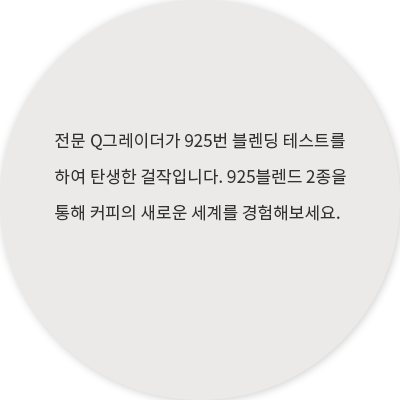
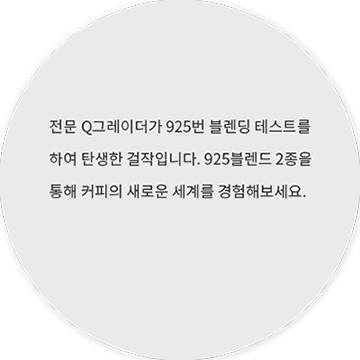
droptop_f

diff --git a/droptop/css/droptop.css b/droptop/css/droptop.css
@@ -102,12 +102,8 @@ section{margin-top: 12px;}
     top: 50%; left: 50%; transform: translate(-50%,-50%);
     text-align: center; width: 900px; max-width: 100%;
 }
-.menu .text-box{
-    float: left; height: 400px; width: 400px;
-}
-.menu .text-box h2{
-    font-size: 50px; padding: 20px 0;
-}
+.menu .text-box{float: left; height: 400px; width: 50%;}
+.menu .text-box h2{font-size: 50px; padding: 20px 0;}
 .menu .text-box hr{
     width: 80px;
     border: 1.5px solid #999;
@@ -133,9 +129,7 @@ section{margin-top: 12px;}
     transition: 0.4s;
 }
 
-.menu .show-img{
-    display: inline-block; width: 400px; height: 400px; position: relative;
-}
+.menu .show-img{display: inline-block; width: 50%; height: 400px; position: relative;}
 .menu .show-img img{
     width: 100%; left: 0;
     top: 50%; transform: translateY(-50%);position: absolute;
@@ -152,14 +146,14 @@ section{margin-top: 12px;}
     width: 900px; max-width: 100%;
 }
 
-.introduce .text-box{float: left; height: 400px; width: 400px;}
+.introduce .text-box{float: left; height: 400px; width: 47%;}
 .introduce .text-box h2{font-size: 50px; margin-top: 120px; padding-left: 20px;}
 .introduce .text-box h3{font-size: 20px; font-weight: 400; margin-top: 26px; padding-left: 20px;}
 
 .introduce .wrap{
-    width: 400px; height: 400px; position: relative;
+    width: 50%; height: 400px; position: relative;
     display: inline-block;
-    margin-left: 40px;
+    margin-left: 20px;
 }
 .introduce .wrap .rotate{
     position: absolute; top: 50%; left: 50%; transform: translate(-50%,-50%);

diff --git a/droptop/css/droptop-mobile.css b/droptop/css/droptop-mobile.css
@@ -56,7 +56,7 @@ nav{
 /* 서브메뉴 */
 .sub-menu{
     bottom: 14px;top: unset; right: unset;
-    text-align: center; padding: 0 20px; width: 100%;
+    text-align: center; width: 100%;
 }
 .sub-menu li a{padding: 0 3px; font-size:14px; color: #666;}
 
